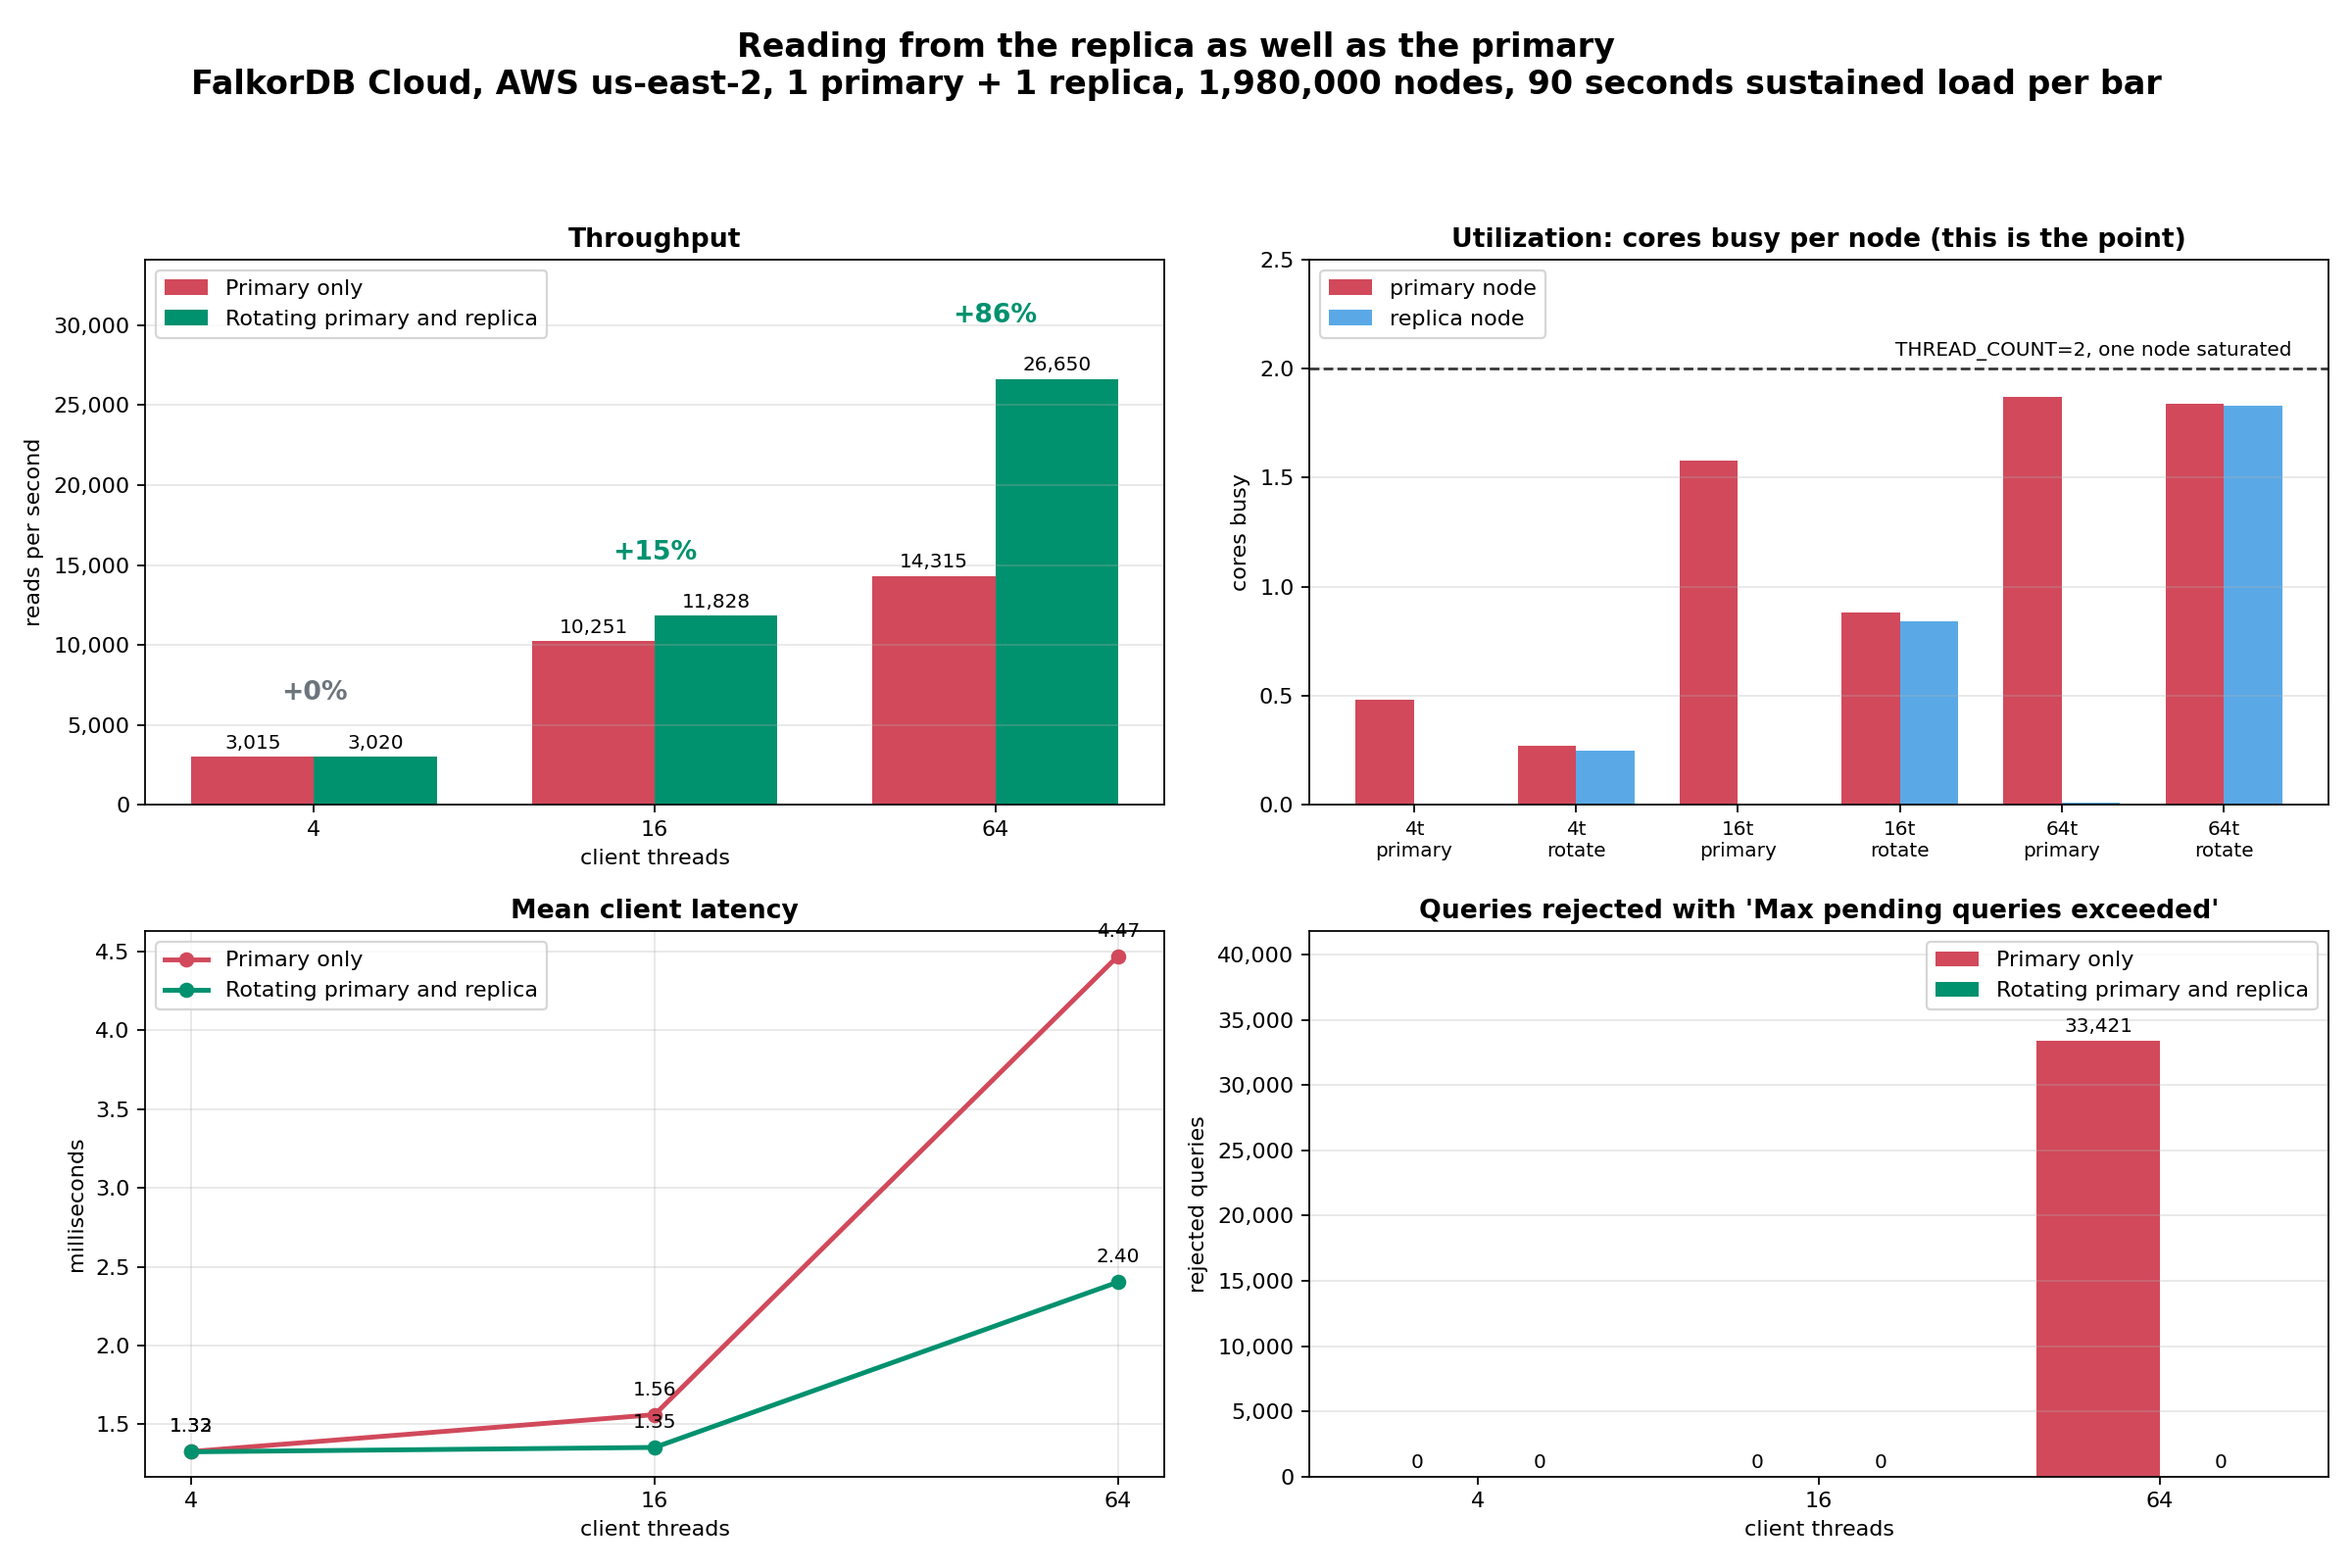
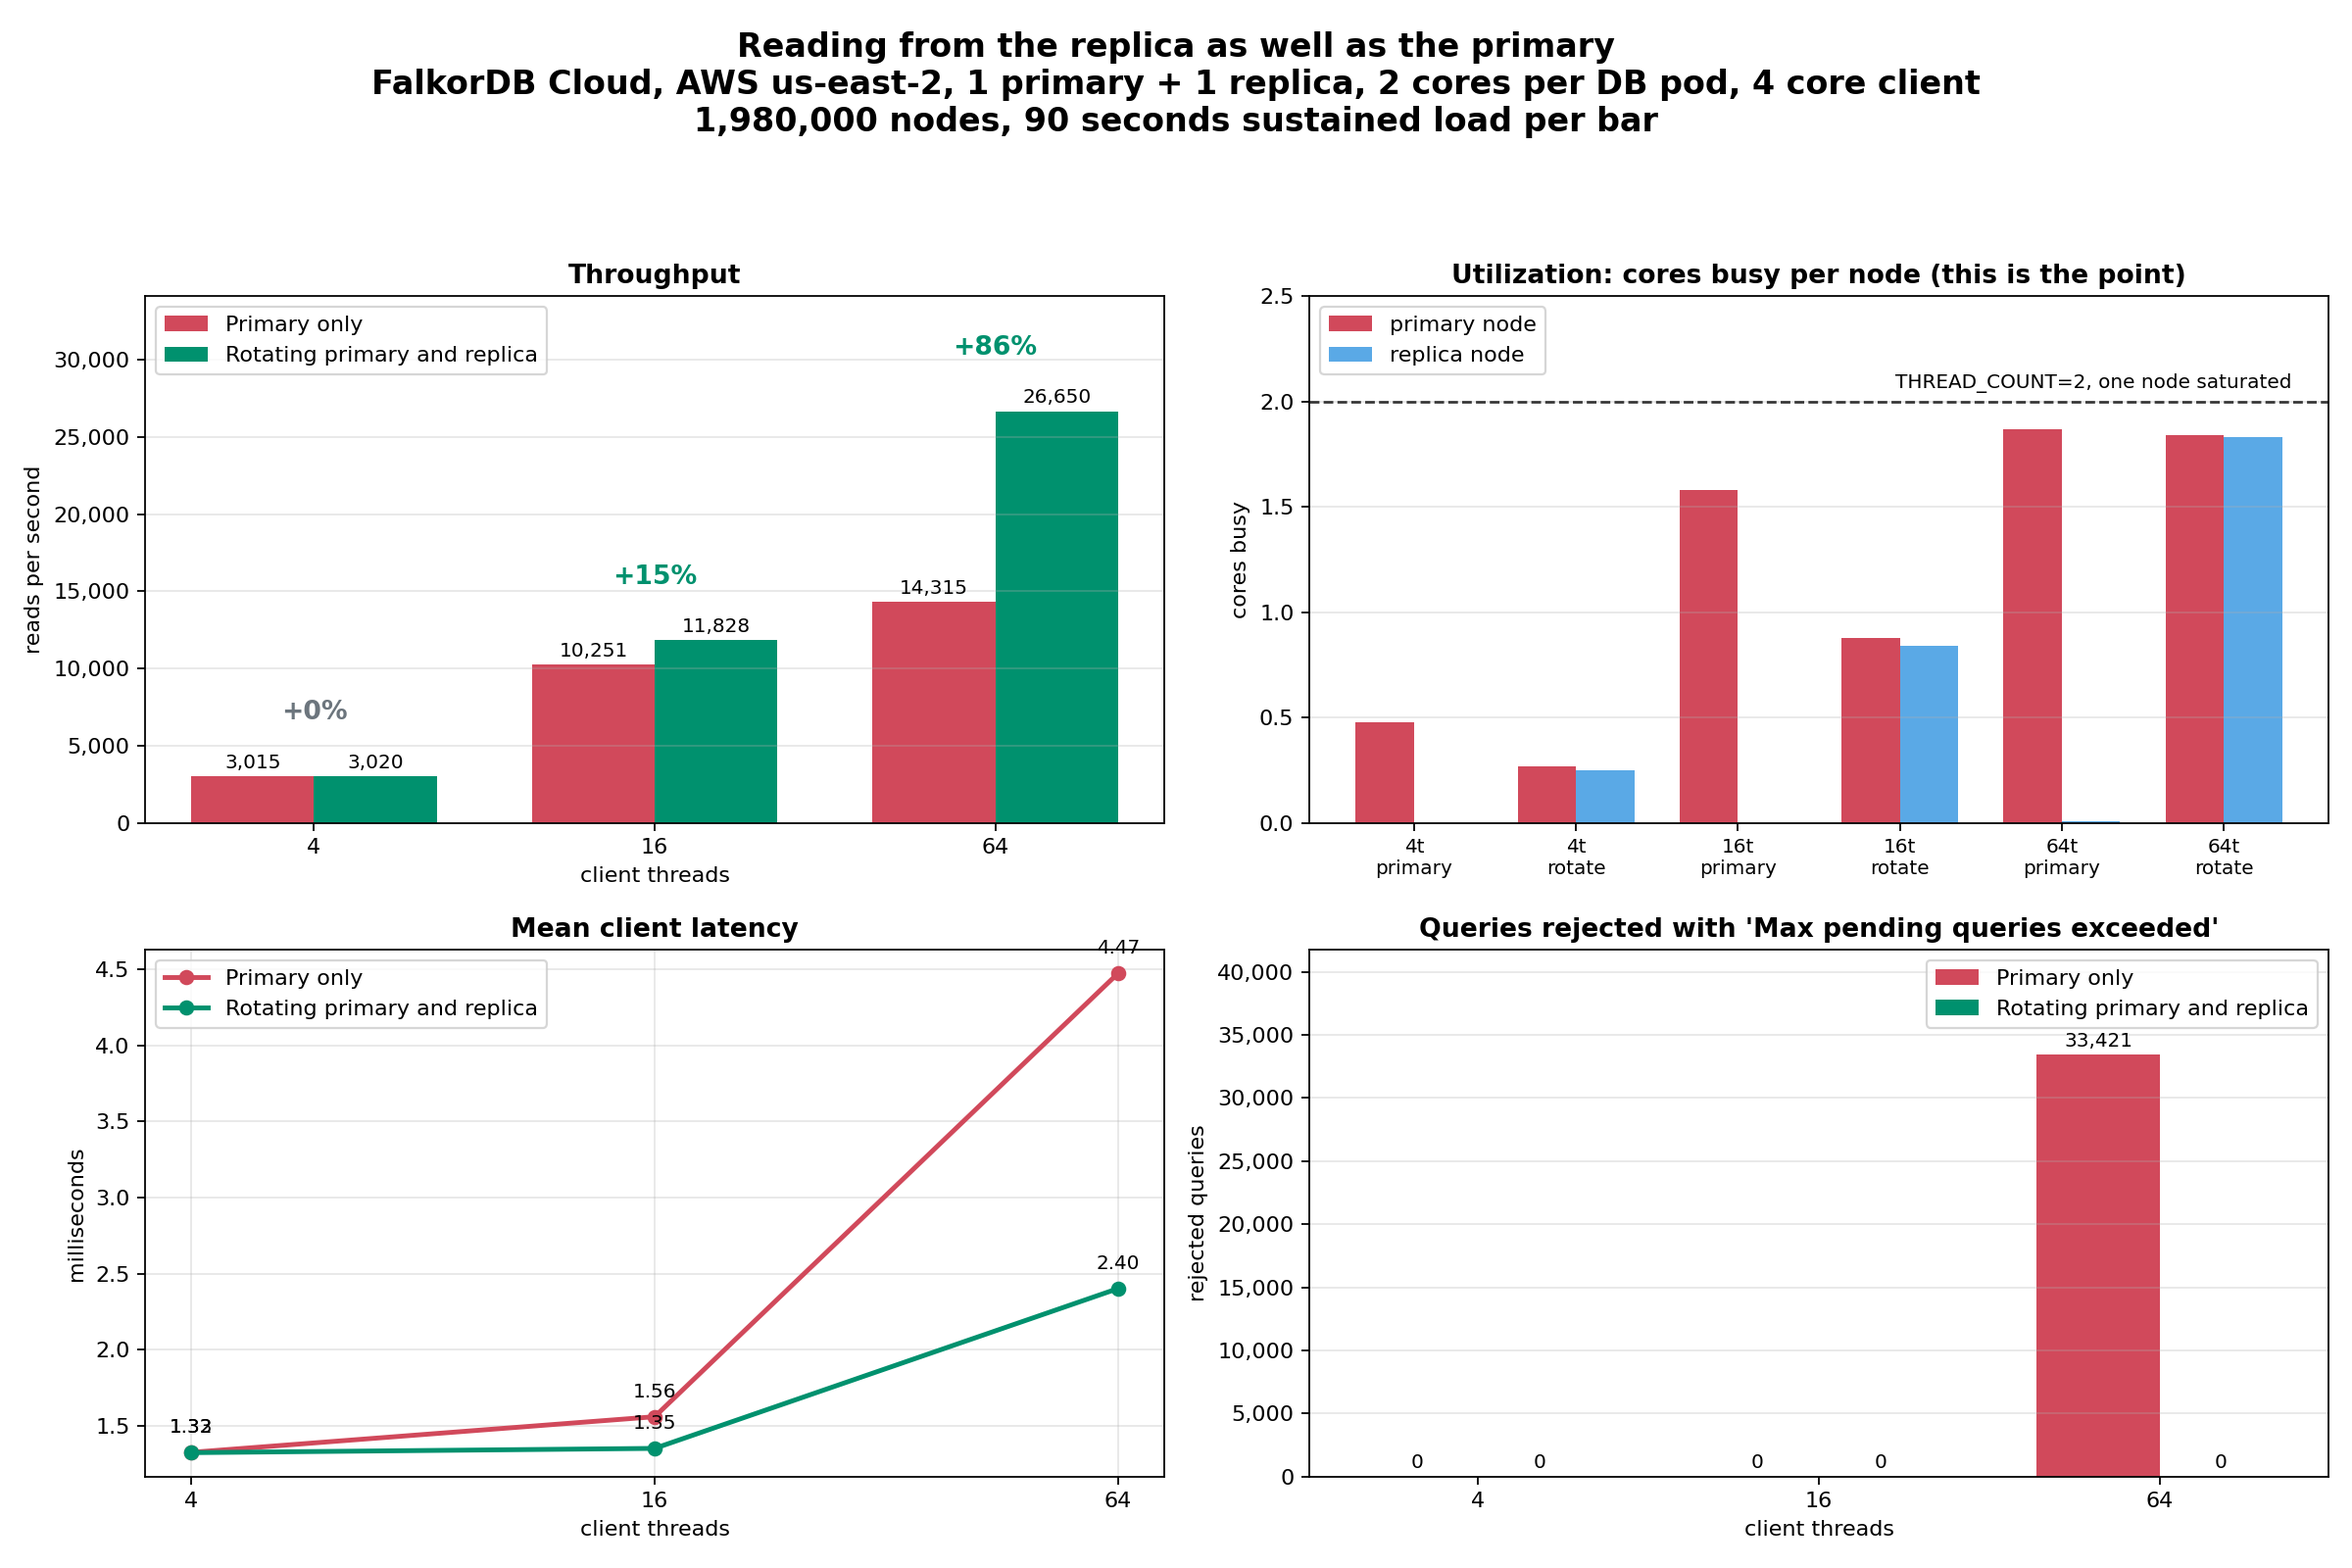
docs: state the hardware spec and lead with a TL;DR
A throughput number without the core counts cannot be compared against
anything, and the 2x ceiling cannot be justified without them.

- both READMEs gain a Test environment table stating 2 cores per database
  pod and a 4 core client, alongside THREAD_COUNT, MAX_QUEUED_QUERIES,
  dataset size and round trip time
- the chart subtitle and the workbook header carry the same spec, since
  those get shared without the README around them
- both READMEs gain a TL;DR, including the caveat that below about 8
  client threads routing changes nothing

The internal TL;DR also lists what must not be claimed: localhost
numbers, the offline test suite as throughput evidence, and failover
behaviour that was never tested.

diff --git a/java-examples/replica-read-routing/docs/make_artifacts.py b/java-examples/replica-read-routing/docs/make_artifacts.py
@@ -86,8 +86,8 @@ def make_charts(rows, nodes, out):
     figure, axes = plt.subplots(2, 2, figsize=(15, 10))
     figure.suptitle(
         "Reading from the replica as well as the primary\n"
-        f"FalkorDB Cloud, AWS us-east-2, 1 primary + 1 replica, {nodes} nodes, "
-        "90 seconds sustained load per bar",
+        f"FalkorDB Cloud, AWS us-east-2, 1 primary + 1 replica, 2 cores per DB pod, "
+        f"4 core client\n{nodes} nodes, 90 seconds sustained load per bar",
         fontsize=15,
         fontweight="bold",
     )
@@ -289,8 +289,9 @@ def make_workbook(rows, nodes, out):
     sheet["A1"] = "Replica read routing, sustained load"
     sheet["A1"].font = title
     sheet["A2"] = (
-        f"FalkorDB Cloud, AWS us-east-2, 1 primary + 1 replica, THREAD_COUNT={FALKOR_THREAD_COUNT} "
-        f"per node, {nodes} nodes, 90 seconds per row."
+        f"FalkorDB Cloud, AWS us-east-2, 1 primary + 1 replica, 2 cores per DB pod, "
+        f"THREAD_COUNT={FALKOR_THREAD_COUNT} per node, 4 core client (EC2 c4.xlarge), "
+        f"{nodes} nodes, 90 seconds per row."
     )
     sheet["A3"] = "Every cell is measured. Nothing on this sheet is modelled or extrapolated."
     sheet["A3"].font = Font(italic=True, color="2E7D32")

diff --git a/java-examples/replica-read-routing/README.md b/java-examples/replica-read-routing/README.md
@@ -5,6 +5,52 @@ lives in one small factory instead of being repeated, and forgotten, throughout 
 
 This is reference code meant to be copied and adapted.
 
+## TL;DR
+
+On a two pod FalkorDB Cloud instance, **2 CPU cores per database pod** and a **4 core client**, at 64
+client threads:
+
+| | Primary only | Rotating | |
+|---|---|---|---|
+| Throughput | 14,345 reads/sec | **26,396 reads/sec** | +84% |
+| Mean latency | 4.46 ms | **2.43 ms** | 1.8x better |
+| Replica cores busy | **0.00 of 2** | **1.83 of 2** | the whole point |
+| Rejected in 5 minutes | **117,217** | **0** | |
+
+The replica you already pay for sits at zero while the primary drops 117 thousand requests. Rotating
+reads across both nodes is a client side change with no data model or query changes.
+
+Below about 8 client threads it changes nothing, because nothing is queueing yet. Do not adopt it
+for a low concurrency workload and expect a speedup. Details in [Why bother](#why-bother).
+
+## Test environment
+
+Every number in this README came from this setup. Nothing is from localhost or Docker.
+
+| | Spec |
+|---|---|
+| Database | FalkorDB Cloud, 2 pods, one primary and one replica |
+| **Cores per database pod** | **2** |
+| FalkorDB `THREAD_COUNT` | 2 per node, so 2 queries execute concurrently per node |
+| FalkorDB `MAX_QUEUED_QUERIES` | 50 per node |
+| Region | AWS us-east-2 |
+| Client | EC2 c4.xlarge, same region |
+| **Client cores** | **4 vCPU** |
+| Client runtime | OpenJDK 17, jfalkordb 0.11.1 |
+| Dataset | 660,000 machines and 1,320,000 readings, about 1,980,000 nodes, 338 MB |
+| Workload | One hop indexed reads, one parameterised query shape, 10,000 rotating parameter sets |
+| Network | Plaintext, 1.18 ms round trip client to database |
+
+Two consequences of the hardware worth holding on to.
+
+**2 cores per pod sets the ceiling at 2x.** One node executes 2 queries at a time, so a second node
+can at best double read capacity. We measured 1.84x. Any claim above 2x on this shape of instance
+would be wrong.
+
+**4 client cores means the client is not the bottleneck at 64 threads.** The threads are blocked on
+network and server responses rather than competing for client CPU, which is why 64 threads on 4
+cores is a reasonable test rather than an artificial one.
+
 ## Scope: primary and replica, not Redis Cluster
 
 This targets a deployment with **one primary holding the whole dataset and one or more replicas
@@ -18,13 +64,13 @@ checks `cluster_enabled` at startup and refuses to build against a cluster.
 
 ## Why bother
 
-A replica that only exists for failover still costs money and still burns nothing. Measured on
-FalkorDB Cloud (AWS us-east-2, 2 pods, `THREAD_COUNT=2` per node) with the Java client on a
-c4.xlarge in the same region, against a graph of about 1,980,000 nodes. Each row is 90 seconds of
-sustained one hop indexed reads drawn from a rotating pool of 10,000 parameter sets.
+A replica that only exists for failover still costs money and still burns nothing. Measured on the
+setup in [Test environment](#test-environment) above, 2 cores per database pod and a 4 core client,
+against a graph of about 1,980,000 nodes. Each row is 90 seconds of sustained one hop indexed reads
+drawn from a rotating pool of 10,000 parameter sets.
 
-`Cores busy` is CPU consumed divided by wall clock. Each node runs `THREAD_COUNT=2`, so 2.00 means
-that node is saturated and 0.00 means it is idle.
+`Cores busy` is CPU consumed divided by wall clock, measured against the 2 cores each pod has. 2.00
+means that node is saturated and 0.00 means it is idle.
 
 | Threads | Mode | Reads/sec | Mean latency | Primary cores busy | Replica cores busy | Rejected |
 |---|---|---|---|---|---|---|

diff --git a/internal/README.md b/internal/README.md
@@ -14,12 +14,57 @@ This file collects the procedures we want repeatable. Add a new section per topi
 
 # Read from replica
 
+## TL;DR
+
+Routing reads across the primary and the replica roughly doubles read throughput on a two pod
+instance, but **only once the primary is saturated**. Below about 8 client threads it changes
+nothing.
+
+Measured at 64 client threads, **2 cores per database pod**, **4 core client**:
+
+| | Primary only | Rotating |
+|---|---|---|
+| Throughput | 14,345 reads/sec | **26,396 reads/sec** |
+| Replica cores busy | **0.00 of 2** | **1.83 of 2** |
+| Rejected in 5 minutes | **117,217** | **0** |
+
+What to say and not say:
+
+- **Say** the ceiling is 2x, set by 2 cores per pod, and we measured 1.84x
+- **Say** primary only dropped 117,217 requests while the replica was idle
+- **Do not** quote localhost or Docker numbers, see [Where the numbers must come from](#where-the-numbers-must-come-from)
+- **Do not** present the 18 passing tests as evidence for throughput or replication, see [The test suite](#the-test-suite)
+- **Do not** promise failover behaviour, it was never tested
+
+## Test environment
+
+Reproduce on this or state clearly that you did not.
+
+| | Spec |
+|---|---|
+| Database | FalkorDB Cloud, 2 pods, one primary and one replica |
+| **Cores per database pod** | **2** |
+| `THREAD_COUNT` | 2 per node |
+| `MAX_QUEUED_QUERIES` | 50 per node |
+| `maxmemory` | 5.25 GB per node, `noeviction` |
+| Region | AWS us-east-2 |
+| Client | EC2 c4.xlarge, same region, Ubuntu 24.04 |
+| **Client cores** | **4 vCPU**, 7 GB RAM |
+| Client runtime | OpenJDK 17, Maven, jfalkordb 0.11.1 |
+| Dataset | about 1,980,000 nodes, 338 MB |
+| Network | Plaintext on Sentinel and data ports, 1.18 ms round trip |
+
+The core counts are the two numbers people forget to record and then cannot explain their results.
+**2 cores per pod** is why the ceiling is 2x and why `cores busy` saturates at 1.88 rather than
+climbing further. **4 client cores** is why 64 client threads is a fair test rather than a client
+side queueing artifact, since the threads block on the network rather than competing for CPU.
+
 ## What this proves
 
 That a replica bought for failover is idle capacity, and that routing reads across the primary and
 the replica converts it into throughput without changing the data model or the queries.
 
-The measured claim, at 64 client threads against a two pod instance:
+The measured claim, at 64 client threads against a two pod instance with 2 cores per pod:
 
 | | Primary only | Rotating |
 |---|---|---|
@@ -38,9 +83,12 @@ anything customer facing.
 
 Every figure in the example README came from:
 
-- the database on **FalkorDB Cloud**, two pods, one primary and one replica
-- the client on an **EC2 box in the same region as the database**, 4 vCPU
+- the database on **FalkorDB Cloud**, two pods, one primary and one replica, **2 cores per pod**
+- the client on an **EC2 box in the same region as the database**, **4 vCPU**
 - **90 second** stages for the sweep, **300 second** stages for the 64 thread confirmation
+
+Always record both core counts alongside a result. Without them a throughput number cannot be
+compared against anything and the 2x ceiling cannot be justified.
 
 Same region matters. At low concurrency throughput is `threads / latency` and latency is dominated
 by round trip time, so a client in another region measures the distance between the two rather than
